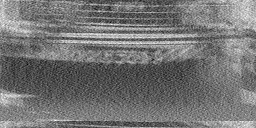
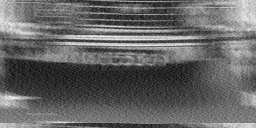
testing part 3

diff --git a/LAB3/deconvolution.cpp b/LAB3/deconvolution.cpp
@@ -52,7 +52,7 @@ int main( int argc, char** argv )
  Mat recover;
 
  //ADJUST THIS FUNCTION CALL
- WienerDeconvoluition(gray_image,recover,15,3,0.001,0);
+ WienerDeconvoluition(gray_image,recover,10,3,0.005,0);
  imwrite( "recover.jpg", recover );
 
  return 0;
